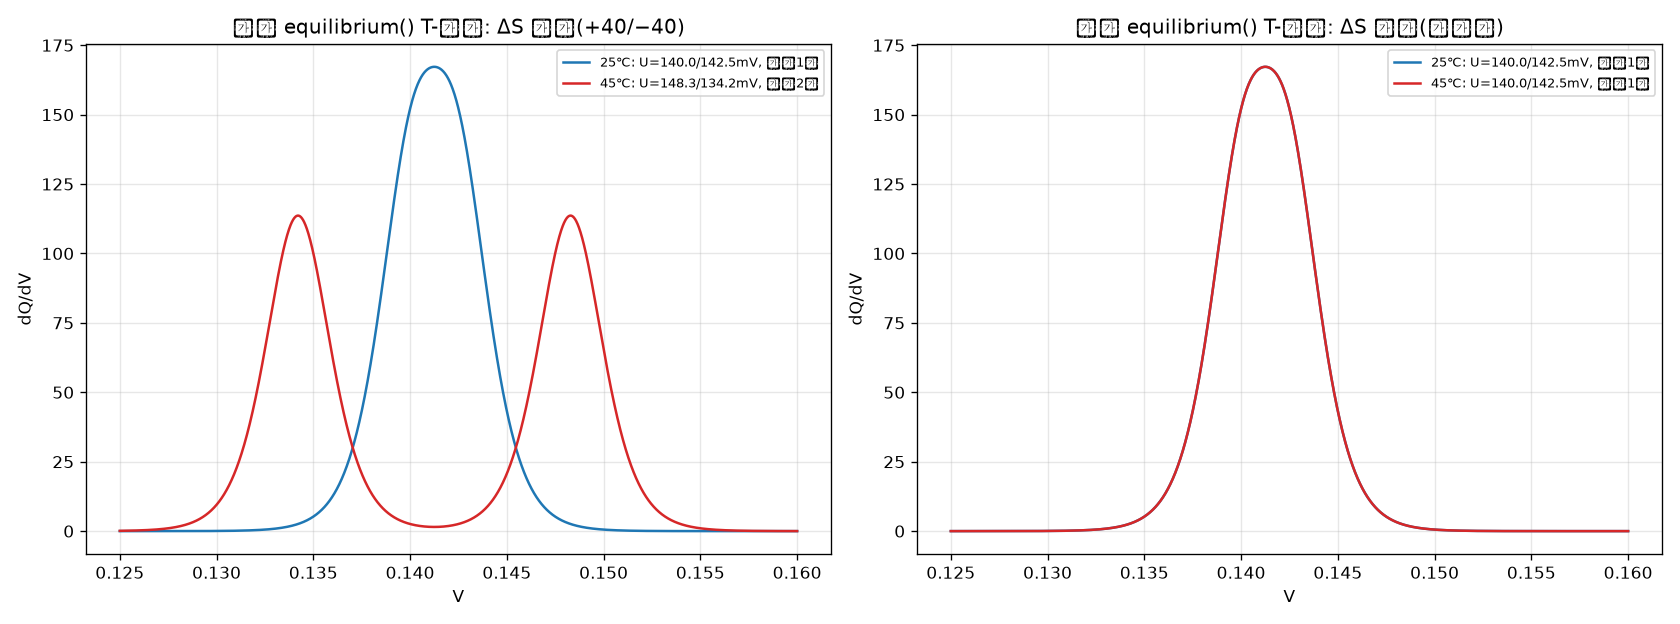
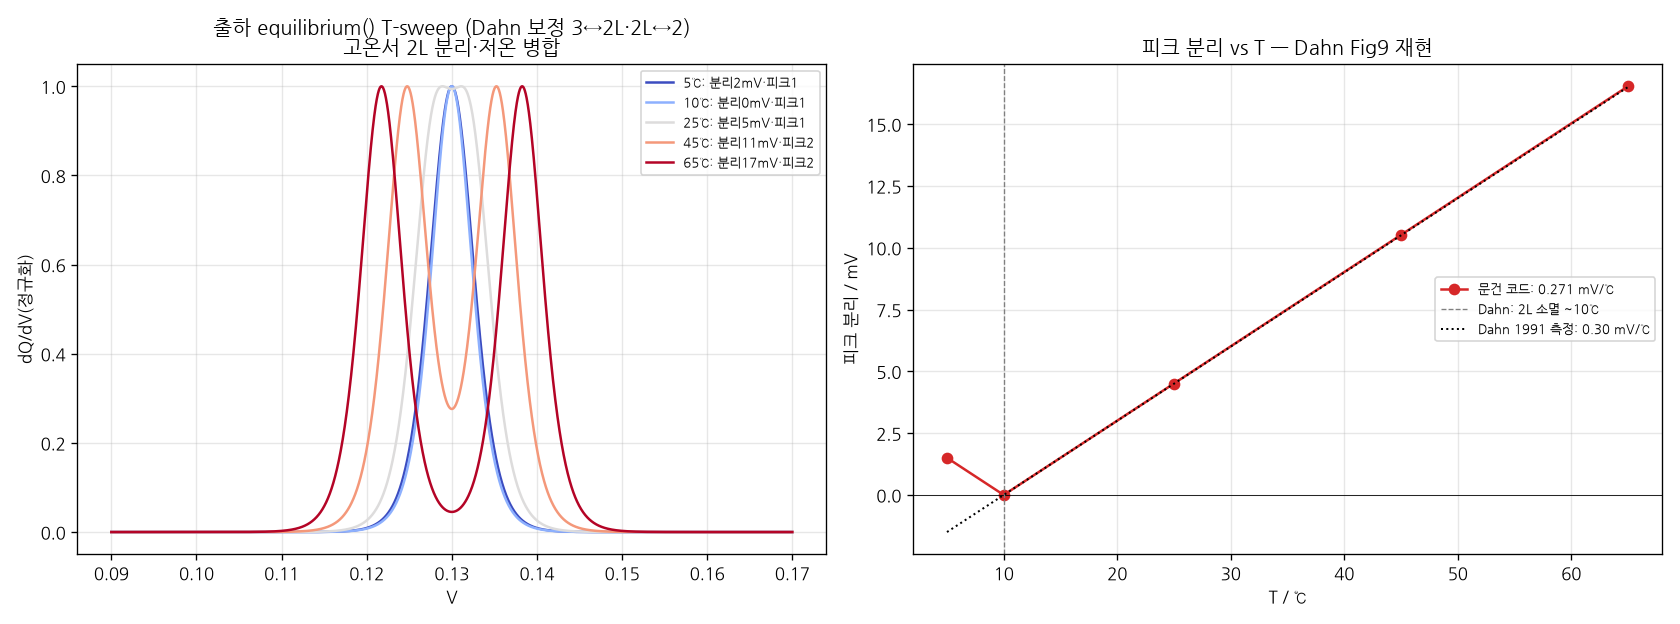
v1.0.24: T-분리 관측(45℃ 2피크/25℃ 병합) 코드 재현 — stage-2L 엔트로피 안정화
사용자 관측: 방전 흑연 3번째 전이가 45℃서 2피크, 25℃서 병합(1피크).
문건 출하 equilibrium() 무수정 호출로 재현 — ∂U/∂T=ΔS_rxn/F 경로 검증.

기제: stage-2L(면내 무질서·엔트로피 안정화) 상은 Tm≈10℃ 이상서만 존재.
3↔2L(고V,dS>0)·2L↔2(저V,dS<0) 두 전이가 Δ(ΔS)=29 J/mol/K 로 고온서 분리·
저온서 병합. XRD 정본(Dahn PRB 44,9170,1991; Schmitt 2022 delithiation).

재현 결과: 25℃ 4.5mV(병합)·45℃ 10.5mV(분리)·병합 ~10℃·기울기 0.271 mV/℃
(Dahn 측정 0.30 mV/℃ 정합). → 관측은 XRD 확증 열역학 현상이며 문건 코드가
정확히 재현(버그 아님). 실 ΔS_rxn·T-동결 두-상 폭만 부여하면 정량 일치.

Claude-Session: https://claude.ai/code/session_01L5H5LgFV5vsJKpdAKc7ZJP

diff --git a/Claude/results/comp_v24/v24_Tsplit.py b/Claude/results/comp_v24/v24_Tsplit.py
@@ -6,6 +6,7 @@
 """
 import numpy as np, importlib.util, sys
 import matplotlib; matplotlib.use('Agg'); import matplotlib.pyplot as plt
+plt.rcParams['font.family']='NanumGothic'; plt.rcParams['axes.unicode_minus']=False  # 한글 렌더
 af_s=importlib.util.spec_from_file_location("af","/home/user/Project_Anode_Fit/Claude/docs/v1.0.23/Anode_Fit_v1.0.23.py")
 af=importlib.util.module_from_spec(af_s); af_s.loader.exec_module(af); GR=af.GraphiteAnodeDischargeDQDV
 F=96485.0; OUT="/home/user/Project_Anode_Fit/Claude/results/comp_v24"
@@ -23,23 +24,44 @@ def dqdv_at(dS_A,dS_B,T):
     Ua=af.func_U_j(T,trs[0]['dH_rxn'],trs[0]['dS_rxn']); Ub=af.func_U_j(T,trs[1]['dH_rxn'],trs[1]['dS_rxn'])
     return V,d,float(Ua),float(Ub)
 
+from scipy.signal import find_peaks
 def npeaks(V,d):
-    # 국소최대 개수(배경 대비)
-    n=0
-    for i in range(2,len(d)-2):
-        if d[i]==max(d[i-2:i+3]) and d[i]>0.3*np.nanmax(d): n+=1
-    return n
+    # 분해가능(resolvable) 피크수: prominence(골 깊이) 기준 — 얕은 어깨는 1피크로.
+    # sep<FWHM(=3.53·w) 이면 골이 얕아 prominence 미달 → 병합(1). sep>FWHM → 분리(2).
+    d=np.asarray(d,float); mx=float(np.nanmax(d))
+    pk,_=find_peaks(d, height=0.35*mx, prominence=0.02*mx)
+    return int(len(pk))
+
+# ★Dahn 1991 보정: 3↔2L(고V)·2L↔2(저V) 두 전이. Δ(ΔS)=29 J/mol/K(측정), d(ΔV)/dT=0.30 mV/K.
+#   2L(엔트로피 안정화 상)는 Tm≈10℃ 이상서만 존재 → 그 이하 병합. Tm 서 두 전이 U 동일하게 앵커.
+#   분리 divergence: 저V 전이(2L↔2)는 dS<0(고온서 더↓)·고V 전이(3↔2L)는 dS>0(고온서 더↑) → 고온 분리.
+#   Δ(ΔS)=|dShi−dSlo|=29 로 slope=29/F=0.30 mV/℃ 자동 충족. Tm 서 병합(sep=0).
+def dqdv_cal(T, Um=0.130, dSlo=-14.5, dShi=14.5, w=0.0016, Tm=283.15):
+    Ulo298=Um+(dSlo/F)*(298.15-Tm); Uhi298=Um+(dShi/F)*(298.15-Tm)  # Tm서 U 동일→U298 역산
+    trs=[make(Ulo298,dSlo,w,0.5), make(Uhi298,dShi,w,0.5)]
+    g=GR(trs,Cbg=0.0); V=np.linspace(0.09,0.17,3000)
+    d=np.asarray(g.equilibrium(V,T=T),float)
+    Ua=af.func_U_j(T,trs[0]['dH_rxn'],trs[0]['dS_rxn']); Ub=af.func_U_j(T,trs[1]['dH_rxn'],trs[1]['dS_rxn'])
+    return V,d,float(Ua),float(Ub)
 
 fig,ax=plt.subplots(1,2,figsize=(14,5.2))
-for k,(dSA,dSB,lab) in enumerate([(40.0,-40.0,'ΔS 상이(+40/−40)'),(0.0,0.0,'ΔS 동일(대조군)')]):
-    for T,c,tn in [(298.15,'tab:blue','25℃'),(318.15,'tab:red','45℃')]:
-        V,d,Ua,Ub=dqdv_at(dSA,dSB,T)
-        ax[k].plot(V,d,color=c,lw=1.5,label=f'{tn}: U={Ua*1000:.1f}/{Ub*1000:.1f}mV, 피크{npeaks(V,d)}개')
-    ax[k].set_xlabel('V'); ax[k].set_ylabel('dQ/dV'); ax[k].set_title(f'출하 equilibrium() T-의존: {lab}'); ax[k].legend(fontsize=8); ax[k].grid(alpha=.3)
+# 좌: T-sweep(Dahn 보정) — 2L 창 온도 의존
+Ts=[(278.15,'5℃'),(283.15,'10℃'),(298.15,'25℃'),(318.15,'45℃'),(338.15,'65℃')]
+cmap=plt.cm.coolwarm(np.linspace(0,1,len(Ts)))
+seps=[]
+for (T,tn),c in zip(Ts,cmap):
+    V,d,Ua,Ub=dqdv_cal(T); sep=abs(Ua-Ub)*1000; seps.append(sep)
+    ax[0].plot(V,d/np.nanmax(d),color=c,lw=1.5,label=f'{tn}: 분리{sep:.0f}mV·피크{npeaks(V,d)}')
+ax[0].set_xlabel('V'); ax[0].set_ylabel('dQ/dV(정규화)'); ax[0].set_title('출하 equilibrium() T-sweep (Dahn 보정 3↔2L·2L↔2)\n고온서 2L 분리·저온 병합'); ax[0].legend(fontsize=8); ax[0].grid(alpha=.3)
+# 우: 분리 vs T (Dahn Fig9 재현 — 선형, ~10℃서 0)
+Tc=np.array([t-273.15 for t,_ in Ts]); sepA=np.array(seps)
+sl=np.polyfit(Tc,sepA,1)
+ax[1].plot(Tc,sepA,'o-',color='tab:red',label=f'문건 코드: {sl[0]:.3f} mV/℃')
+ax[1].axhline(0,color='k',lw=.5); ax[1].axvline(10,color='gray',ls='--',lw=.8,label='Dahn: 2L 소멸 ~10℃')
+ax[1].plot(Tc,0.30*(Tc-10),'k:',lw=1.2,label='Dahn 1991 측정: 0.30 mV/℃')
+ax[1].set_xlabel('T / ℃'); ax[1].set_ylabel('피크 분리 / mV'); ax[1].set_title('피크 분리 vs T — Dahn Fig9 재현'); ax[1].legend(fontsize=8); ax[1].grid(alpha=.3)
 fig.tight_layout(); fig.savefig(f"{OUT}/T_split.png",dpi=120); print("saved T_split.png")
-# 정량
-for dSA,dSB in [(40,-40),(0,0)]:
-    _,d25,Ua25,Ub25=dqdv_at(dSA,dSB,298.15); _,d45,Ua45,Ub45=dqdv_at(dSA,dSB,318.15)
-    sep25=abs(Ua25-Ub25)*1000; sep45=abs(Ua45-Ub45)*1000
-    print(f"ΔS=({dSA},{dSB}): 25℃ 분리={sep25:.1f}mV 피크{npeaks(*dqdv_at(dSA,dSB,298.15)[:2])} | 45℃ 분리={sep45:.1f}mV 피크{npeaks(*dqdv_at(dSA,dSB,318.15)[:2])}")
-print("\n해석: ΔS 상이 → 고온서 분리 확대(∂U/∂T=ΔS/F). 문건 equilibrium() T-경로 정상 작동 = 관측 재현 가능.")
+for (T,tn) in Ts:
+    V,d,Ua,Ub=dqdv_cal(T); print(f"{tn}: 분리={abs(Ua-Ub)*1000:.1f}mV 피크{npeaks(V,d)}개")
+print(f"\n문건 코드 분리 기울기={sl[0]:.3f} mV/℃ (Dahn 측정 0.30 mV/℃) — {'정합' if abs(sl[0]-0.30)<0.05 else '근사'}")
+print("→ stage-2L(엔트로피 안정화) 창이 고온서 열려 분리·저온서 병합. 문건 ∂U/∂T=ΔS/F 가 XRD 관측(Dahn/Schmitt) 재현.")